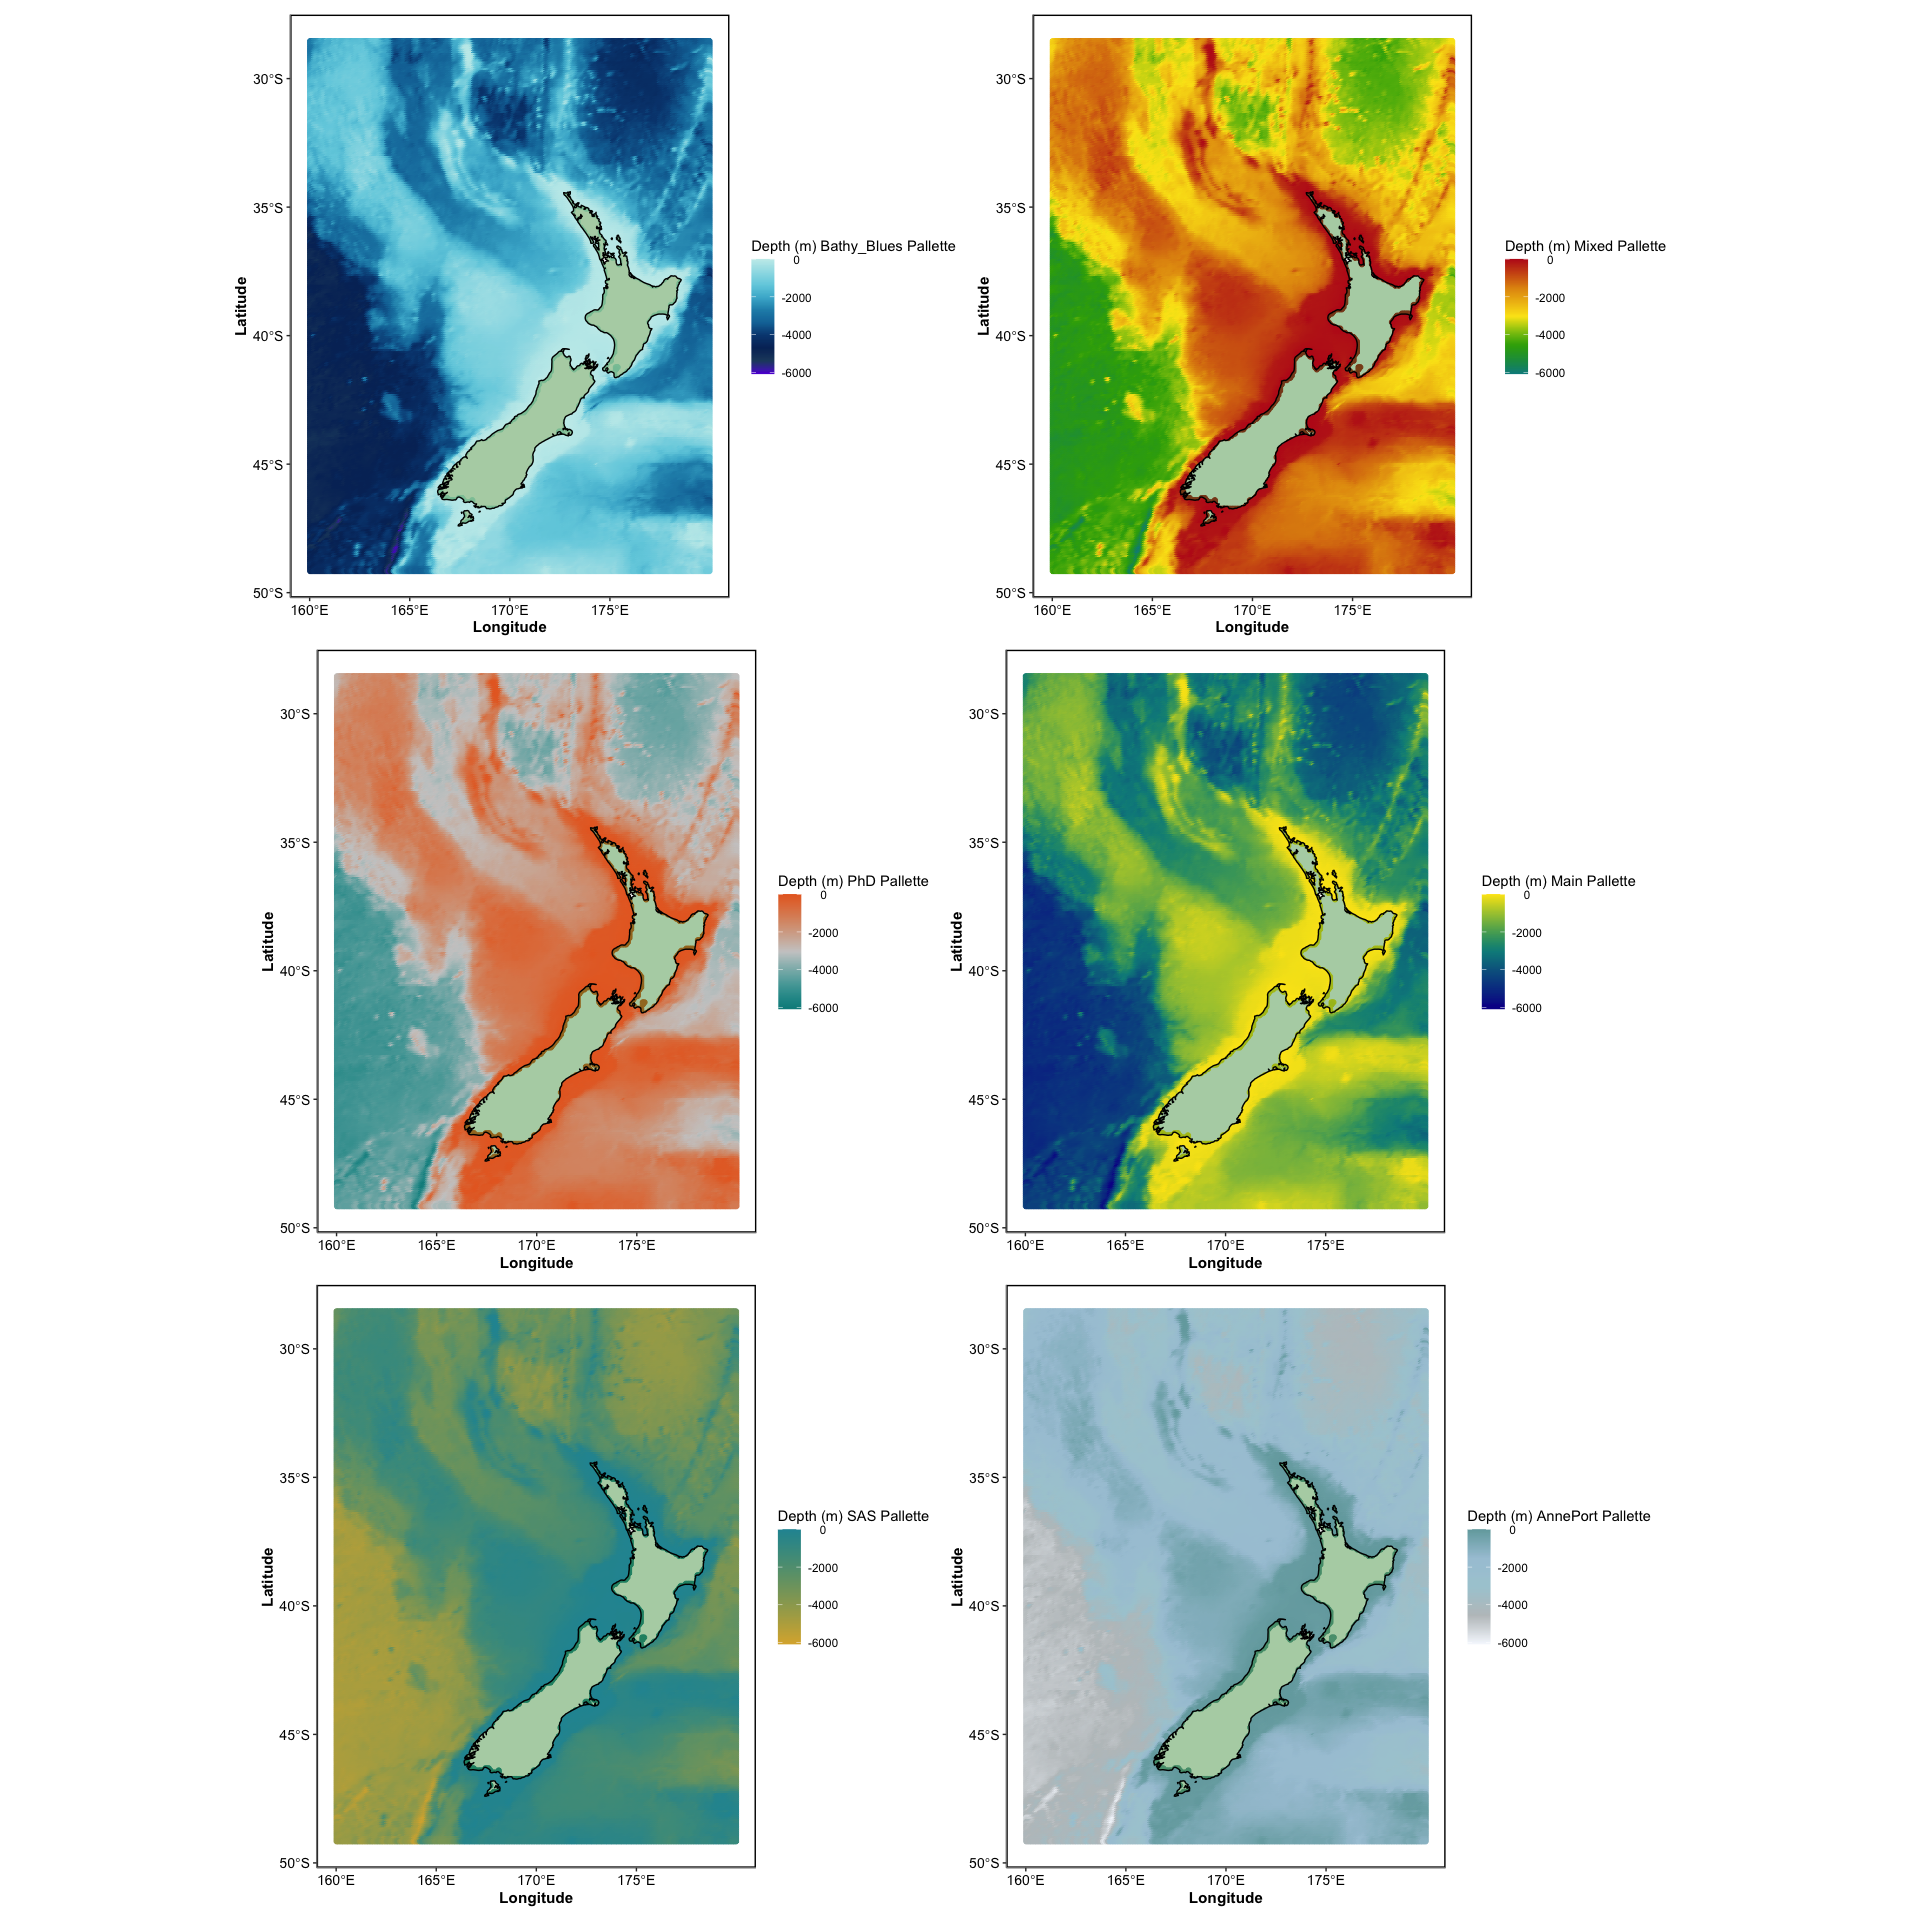
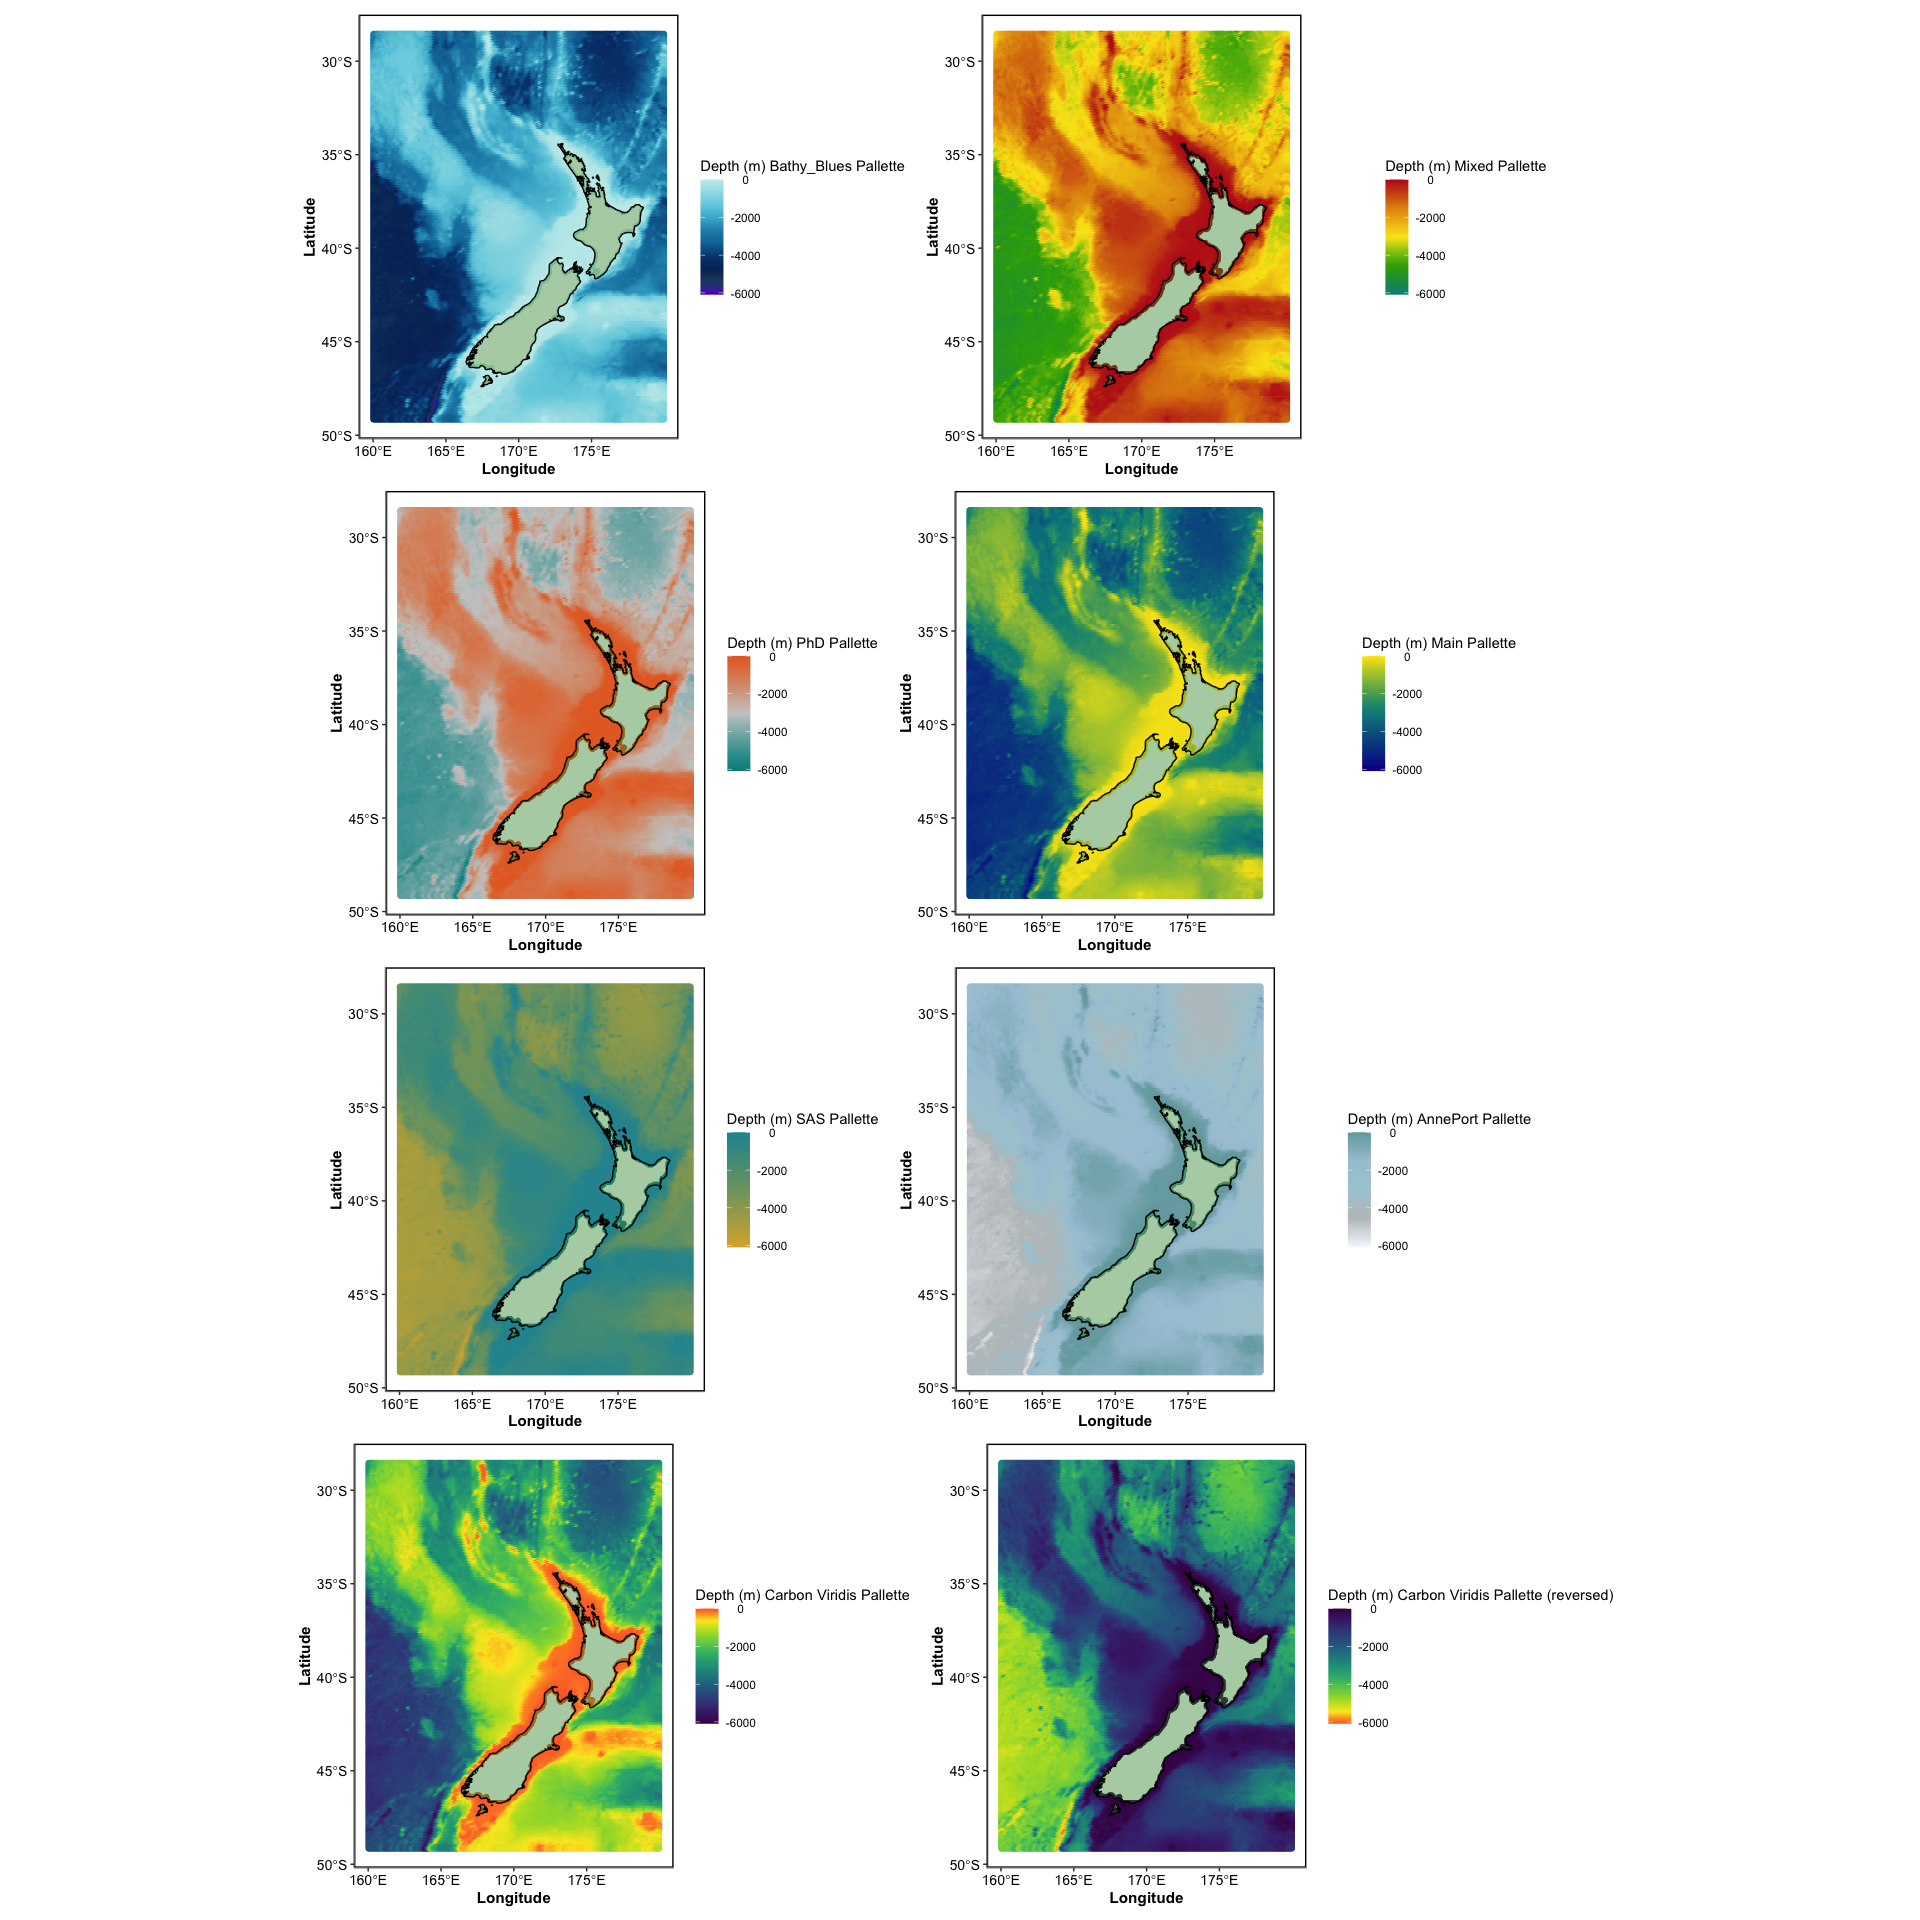
new palette similar to viridis with additions

diff --git a/README.md b/README.md
@@ -324,7 +324,25 @@ map6<-ggplot()+
   labs(x="Longitude",
        y="Latitude")
 
-(map1+map2)/(map3+map4)/(map5+map6)
+map7<-ggplot()+
+  geom_sf(data=sf_bathy,mapping=aes(colour=layer))+
+  geom_polygon(data = nz, aes(x = long, y = lat, group = group),
+               fill = "forestgreen", colour = "black",alpha=0.4)+
+  Utilities.Package::scale_colour_Bede(name="Depth (m) Carbon Viridis Pallette",'Carbon_Viridis',discrete=FALSE)+
+  Utilities.Package::theme_Bede()+
+  labs(x="Longitude",
+       y="Latitude")
+
+map8<-ggplot()+
+  geom_sf(data=sf_bathy,mapping=aes(colour=layer))+
+  geom_polygon(data = nz, aes(x = long, y = lat, group = group),
+               fill = "forestgreen", colour = "black",alpha=0.4)+
+  Utilities.Package::scale_colour_Bede(name="Depth (m) Carbon Viridis Pallette (reversed)",'Carbon_Viridis',discrete=FALSE,reverse = TRUE)+
+  Utilities.Package::theme_Bede()+
+  labs(x="Longitude",
+       y="Latitude")
+
+(map1+map2)/(map3+map4)/(map5+map6)/(map7+map8)
 ```
 
 <img src="man/figures/README-mapping-1.png" width="100%" />
